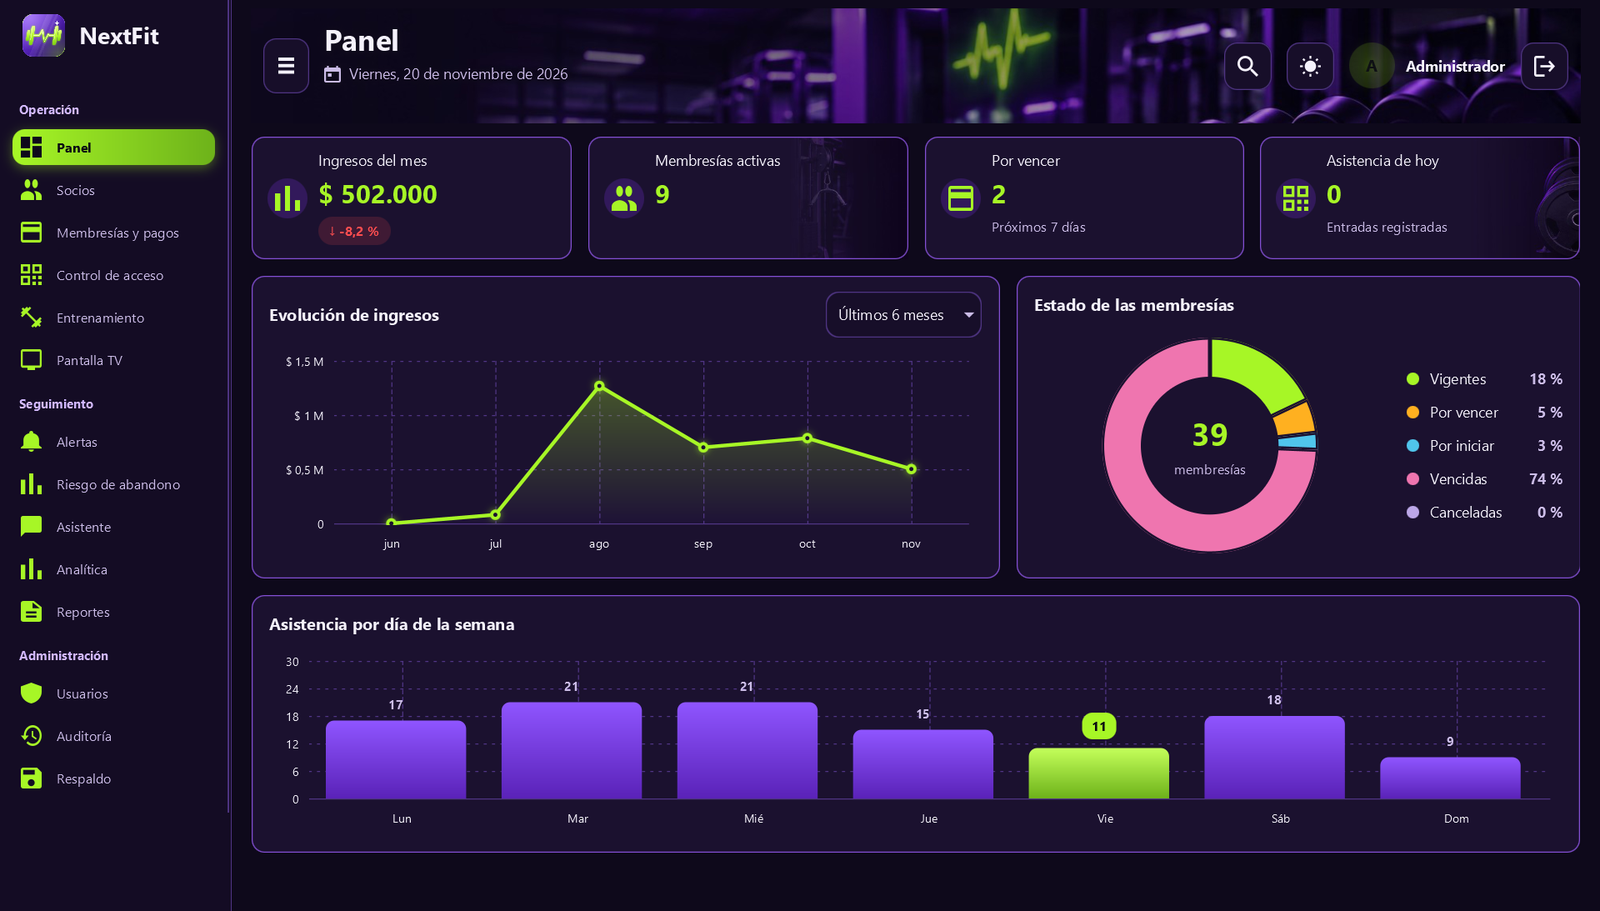
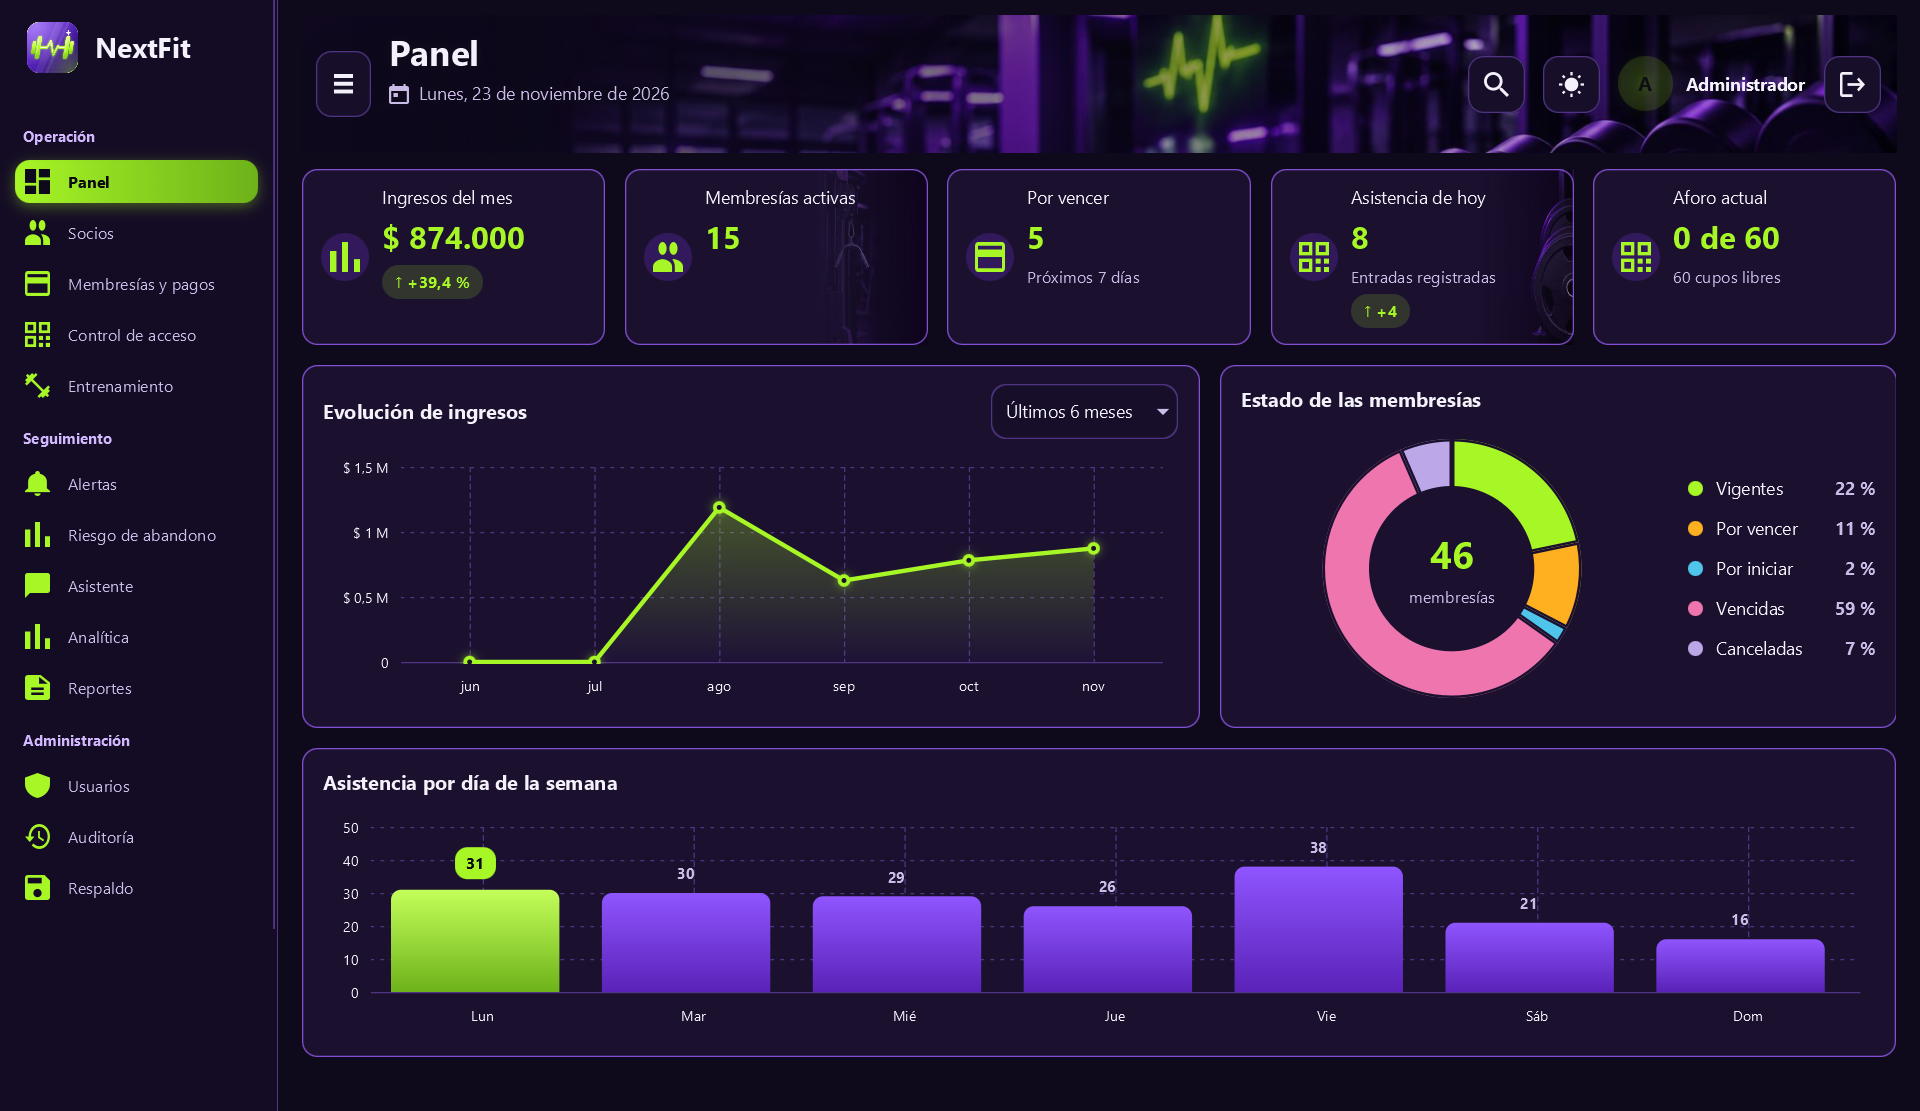
docs: refresh README and update feature screenshots

diff --git a/README.md b/README.md
@@ -46,7 +46,7 @@ It is built with **Java 21** and **JavaFX** (with the AtlantaFX theme and its ow
 
 > This repository is the course project of *Programación III*.
 >
-> **Current state:** the interface is JavaFX, with a dark and a light theme, motion and a collapsible menu. Done: dashboard, members (table, form and member file), billing, training, access control, carnets, entry with the face (camera, offline) or with a password, personal portal on the phone, AI assistant, churn risk, analytics, TV screen, reports and cash close, alerts, users, audit log and backup. NextFit works with Oracle Cloud and with local CSV storage.
+> NextFit includes a JavaFX desktop application for gym staff and a mobile portal for members. The portal can run independently on the same Wi-Fi while the desktop window is closed.
 
 ---
 
@@ -63,17 +63,17 @@ It is built with **Java 21** and **JavaFX** (with the AtlantaFX theme and its ow
 
 ### 👥 Members and health
 - **Members screen**: table with photo, document, phone and status, and a search box (name, document or phone).
-- Register, edit and deactivate members, with photo, emergency contact and validated personal data. The administrator and the reception can change data; the trainers can only read.
+- Register, edit and deactivate members, with photo, emergency contact and validated personal data. Birth dates can be typed directly or selected from the calendar. The administrator and the reception can change data; the trainers can only read.
 - **Health profile** (height, blood type, medical conditions, allergies), **measurements history** with automatic **BMI** and category, and the member **detail panel** live in the **member file** (button *Ver ficha*), with the tabs *Salud*, *Mediciones*, *Asistencia* and *Logros* (streaks and badges).
 - **Attendance**: check-in / check-out of members, with the list of members currently inside the gym (see Access control).
 - **Global search**: Ctrl+K or the magnifier in the top bar finds members (name, document, phone) and sections, ignoring case and accents; every module can add its own results through `FxModule.search`.
 - **Alerts engine**: birthdays, memberships about to expire and members who stopped coming, each with a ready WhatsApp message (`service.alert`). The **Alertas** screen shows them in cards and a list, writes the message for the member and opens WhatsApp or copies the text (administrator and reception).
 
 ### 💳 Memberships and billing
-- Membership plans (name, duration, price) that can be activated or retired.
-- Sale of a membership to a member with a **payment method** (cash, card, transfer) and an optional **discount** (percentage or fixed amount).
+- Administrators create, edit, retire and reactivate membership plans. Reception can sell available plans and view subscriptions and payments.
+- Sell memberships by cash, card or transfer. Eligible renewals can apply one benefit for an attendance achievement (10% to 40%) or a birthday (50% on the birth date, once per calendar year).
 - Automatic receipt with its number, subtotal, discount and total.
-- Subscription list with computed status: *upcoming, active, expired, cancelled*, with days left; subscriptions can be cancelled.
+- Subscription list with computed status: *upcoming, active, expired, cancelled*, with days left. Only administrators can cancel a subscription.
 - Payment history, with the delivery state of each receipt email.
 - **Automatic email** through Gmail (off by default): the receipt is sent after each payment and a reminder three days before a membership expires. Test mode sends only to the developer's inbox; failed receipts can be retried from the *Pagos* tab. See [`docs/automatic-email.md`](docs/automatic-email.md).
 
@@ -81,29 +81,32 @@ It is built with **Java 21** and **JavaFX** (with the AtlantaFX theme and its ow
 - **Exercise catalog** with description, muscle group, difficulty and photo.
 - **Routines** organized by days and exercises (sets, repetitions, rest time), created by a trainer.
 - **Assignment** of routines to members who hold a valid membership (active, completed or cancelled).
-- **Training sessions** log per assignment (day, duration, notes).
-- Trainer management.
+- **Training sessions** log per assignment (day, duration, notes). Filter members by whether they have a routine assignment or recorded sessions in the corresponding tab.
+- Trainer management. Birth dates can be typed directly or selected from the calendar.
 
 ### 📊 Dashboard
-- Indicators for active memberships, memberships about to expire, today's attendance and the income of the month.
+- Indicators for active memberships, memberships about to expire, today's attendance, monthly income, and current occupancy with available spots.
 - **Trend chips**: income compared with the same days of the previous month, and today's entries compared with yesterday.
 - Charts: memberships by status (donut), attendance by weekday (bars) and income of the last months (line, in millions of pesos). They animate when the screen opens.
 
 ### 🚪 Access control
 - Check-in and check-out are done by the member alone, with the **face** or with the **document and a password**.
-- **Personal portal**: the QR of the carnet opens on the phone the portal of the member (day to train, next days, last visits, body progress, membership). The QR is read-only and never registers an entry or an exit ([details](docs/phone-qr-access.md)).
-- **Dentro ahora**: list of the people inside the gym; the staff can close the visit of a member who forgot to mark the exit.
-- **Carnets**: each member has a credit-card sized carnet (front and back) that can be saved as an image or as a **PDF**; one more button makes a single PDF with every active member, four carnets per A4 page, ready to print and cut. The QR is drawn as vectors so it scans at any size.
+- **Dentro ahora** shows visitors in arrival order and the available spots. Administrators can configure gym capacity here. Staff can record a missed exit. The system pauses new admissions when the gym is full.
+
+### 📱 Member cards and mobile portal
+- **Socios → Carnets** issues a branded card at registration with the name, document, photo or initials, and a QR code for the member portal. Export a PNG or a print-ready front-and-back PDF, up to four cards per A4 page.
+- Members with an active membership can use the portal to see routines, recent visits, progress, membership details and estimated occupancy by time. The QR opens the portal without recording a check-in or check-out.
+- The portal can run on the same Wi-Fi with the desktop window closed. See the [setup guide](docs/phone-qr-access.md).
 
 ### 🤖 AI assistant and churn risk
 - **Churn risk** (*Riesgo de abandono*): each member gets a risk level (low, medium, high) from rules that look at the days away, the drop in frequency and the memberships about to expire (`service.churn`). New rules are new `ChurnRule` classes.
 - **Assistant** (*Asistente*): a chat for the staff that answers about the gym (members at risk, best hours, revenue, alerts) by calling safe read-only tools, and that can suggest routines. It uses the Claude API; the key goes in `nextfit.properties` (`ai.apiKey`), has a daily limit of tokens and is never stored in the repository.
-- **Member chat** in the personal portal, limited to the data of that member (`PortalChatService`).
+- **Member chat** answers using the signed-in member data and shows how many of the 20 daily questions are left. The counter resets at midnight or when the portal process restarts.
 
 ### 🏅 Achievements
 - Streaks of attendance, badges and a ranking of members (`service.gamification`).
 
-### 📈 Analytics and TV screen
+### 📈 Analytics
 - **Analytics**: peak hour, average stay, renewal rate, members at risk of leaving, and a heat map of the busiest hours (last 8 weeks).
 - **TV screen** (*Pantalla TV*): live occupation of the gym (people inside, capacity, level, best hour to come), designed to be shown on a television in full screen.
 
@@ -130,7 +133,7 @@ It is built with **Java 21** and **JavaFX** (with the AtlantaFX theme and its ow
 
 ## Screenshots
 
-> Screenshots live in [`docs/screenshots`](docs/screenshots). The face in the *Rostro* picture and the local folder in the *Backup* picture are blurred.
+> Screenshots live in [`docs/screenshots`](docs/screenshots). Some screenshots show earlier interface layouts. Identifying details and QR codes are covered in the updated access and card screenshots.
 
 | Login | Dashboard (dark) |
 |:--:|:--:|
@@ -152,9 +155,9 @@ It is built with **Java 21** and **JavaFX** (with the AtlantaFX theme and its ow
 |:--:|:--:|
 | ![Exercises](docs/screenshots/training-exercises.png) | ![Routine assignment](docs/screenshots/training-assign.png) |
 
-| Inside now | Carnets |
+| Inside now and capacity | Member cards |
 |:--:|:--:|
-| ![Inside now](docs/screenshots/access-inside.png) | ![Carnets](docs/screenshots/access-carnets.png) |
+| ![Current visitors and capacity](docs/screenshots/access-inside.png) | ![Member card preview](docs/screenshots/access-carnets.png) |
 
 | Face entry | Password entry |
 |:--:|:--:|
@@ -168,10 +171,6 @@ It is built with **Java 21** and **JavaFX** (with the AtlantaFX theme and its ow
 |:--:|:--:|
 | ![AI assistant](docs/screenshots/assistant.png) | ![Analytics](docs/screenshots/analytics.png) |
 
-| TV screen | Reports |
-|:--:|:--:|
-| ![TV screen](docs/screenshots/tv.png) | ![Reports](docs/screenshots/reports.png) |
-
 | Users | Audit log |
 |:--:|:--:|
 | ![Users](docs/screenshots/users.png) | ![Audit log](docs/screenshots/audit.png) |
@@ -180,11 +179,13 @@ It is built with **Java 21** and **JavaFX** (with the AtlantaFX theme and its ow
 |:--:|:--:|
 | ![Backup](docs/screenshots/backup.png) | ![Routines](docs/screenshots/training.png) |
 
-**Personal portal on the phone** (the QR of the carnet):
+See also the [reports screen](docs/screenshots/reports.png).
 
-| Today and membership | Chat and progress |
+**Member portal on a phone**
+
+| Training and membership | Occupancy, chat and progress |
 |:--:|:--:|
-| <img src="docs/screenshots/portal-phone.png" width="260"> | <img src="docs/screenshots/portal-chat.png" width="260"> |
+| <img src="docs/screenshots/portal-phone.png" width="260"> | <img src="docs/screenshots/portal-chat.png" width="260" alt="Estimated peak occupancy, remaining chatbot questions and training progress"> |
 
 ---
 
@@ -195,15 +196,14 @@ The sidebar only shows the modules that the logged-in role can use.
 | Module | Administrator | Reception | Trainer |
 |---|:--:|:--:|:--:|
 | Dashboard | ✅ | ✅ | ❌ |
-| Members | ✅ edit | ✅ edit | 👁 read only |
-| Billing (plans, sales, payments) | ✅ | ✅ | ❌ |
+| Members and cards | ✅ edit and issue cards | ✅ edit and issue cards | 👁 read members |
+| Billing (plans, sales, payments) | ✅ sales and administration | ✅ sales and history | ❌ |
 | Training (exercises, routines, assignments) | ✅ | ❌ | ✅ |
-| Access control (inside now, carnets, face, password) | ✅ | ✅ | ❌ |
+| Access control (inside now, face, password) | ✅ | ✅ | ❌ |
 | Analytics | ✅ | ✅ | ❌ |
 | Churn risk | ✅ | ✅ | ❌ |
 | AI assistant | ✅ | ✅ | ❌ |
 | Alerts | ✅ | ✅ | ❌ |
-| TV screen | ✅ | ✅ | ❌ |
 | Reports and cash close | ✅ | ✅ | ❌ |
 | Users | ✅ | ❌ | ❌ |
 | Audit log | ✅ | ❌ | ❌ |
@@ -354,7 +354,7 @@ NextFit/
 │   │   │   ├── face/          #   face recognition rules
 │   │   │   ├── gamification/  #   streaks, badges, ranking
 │   │   │   ├── portal/        #   data of the personal portal
-    │   │   │   ├── occupancy/     #   live occupation (TV screen)
+    │   │   │   ├── occupancy/     #   gym capacity and occupancy forecasts
     │   │   │   ├── security/      #   login lockout and inactivity
     │   │   │   └── suggest/       #   routine suggestions
     │   │   ├── validation/        # one validator per area
@@ -406,6 +406,14 @@ mvn clean compile exec:java
 Or from the IDE: open the project as a Maven project and run the class `com.nextfit.Main`.
 
 > The application must be started from the project root, because the `data/` and `backups/` folders are created relative to the working directory.
+
+### Run the member portal separately on Windows
+
+1. Add `portal.standaloneLan=true` to your local `nextfit.properties`. The default port is 8765. If it is already in use, set `portal.lanPort` to an available port.
+2. Run `start-portal-lan.cmd` from the project root and leave the portal process running. The host computer must stay awake.
+3. Connect the phone and computer to the same Wi-Fi or hotspot. Open the `/ping` address printed by the launcher, then generate and scan a card from **Socios → Carnets**.
+
+The desktop window can be closed once the standalone server is running. Generate a fresh QR when the host IP address or port changes. For more details, see the [phone portal setup guide](docs/phone-qr-access.md).
 
 ### Build a package
 
@@ -474,7 +482,7 @@ Relations between entities are stored as identifiers (for example a subscription
 
 ## Business rules
 
-Some of the rules enforced by the services (all of them covered by tests):
+Selected rules enforced by the services:
 
 - A member can only buy a membership if they are **active** and the plan is still **available**.
 - A subscription that already expired **cannot be cancelled**, and a cancelled one cannot be cancelled again.
@@ -485,7 +493,7 @@ Some of the rules enforced by the services (all of them covered by tests):
 - Usernames are unique; you cannot deactivate your own user, and at least one active administrator must remain.
 - Plan names are unique.
 - After 5 failed sign-ins a user is blocked for 5 minutes, and a session with no activity for 15 minutes is closed; both are written in the audit log.
-- A carnet code is not the document: it is an HMAC of it with a secret key, and the same code read twice in 10 seconds is counted once.
+- The member card uses a signed QR code. The portal checks for an active member account and an active membership before displaying personal information.
 - Restoring a backup first saves the current data, and refuses any zip that is not a NextFit backup or that has paths leaving the data folder.
 - Data validation, for example: age between 12 and 100 years, document between 5 and 12 digits, phone between 7 and 15 digits, height between 100 and 250 cm, weight between 20 and 400 kg, valid blood types only.
 
@@ -497,7 +505,7 @@ Some of the rules enforced by the services (all of them covered by tests):
 mvn test
 ```
 
-The suite covers services (members, health, attendance, access, plans, subscriptions, payments, cash close, reports, analytics, occupancy, alerts, churn, achievements, audit, security, exercises, routine assignments, training sessions, users, dashboard, backup), the face recognition rules, the assistant and its tools (with a fake model), the phone access server and portal, the PDF and Excel writers, the demo data seeder, formatting and receipt helpers, photo storage and UI helper components. The JDBC repositories, the backup export and the CSV to Oracle migration are tested on an in-memory **H2** database built from `docs/sql/schema.sql`. The tests run on every pull request through GitHub Actions. Services are tested with in-memory fake repositories, so the tests need no files, no camera, no network and run fast.
+The suite covers services (members, health, attendance, access, plans, subscriptions, payments, cash close, reports, analytics, occupancy, alerts, churn, achievements, audit, security, exercises, routine assignments, training sessions, users, dashboard, backup), the face recognition rules, the assistant and its tools (with a fake model), the phone access server and portal, the PDF and Excel writers, the demo data seeder, formatting and receipt helpers, photo storage and UI helper components. The JDBC repositories, the backup export and the CSV to Oracle migration are tested on an in-memory **H2** database built from `docs/sql/schema.sql`. The tests run on every pull request through GitHub Actions. The suite uses temporary files, test databases and local HTTP requests where needed. It does not require a camera, external Oracle access or a live AI API.
 
 ---
 
@@ -530,7 +538,7 @@ Some examples:
 | [Audit log and security](docs/audit-and-security.md) | Lockout, inactivity and what is recorded |
 | [Backup and restore](docs/backup-restore.md) | How the backups work and how to recover the data |
 | [Reports and cash close](docs/reports-cash-close.md) | The cash close and the PDF and Excel reports |
-| [Phone QR access](docs/phone-qr-access.md) | QR of the carnet: personal portal |
+| [Phone QR access](docs/phone-qr-access.md) | Member cards, portal access and standalone Wi-Fi setup |
 | [Face recognition](docs/face-recognition.md) | How the face entry works and its safety checks |
 | [Member password](docs/member-password.md) | Entry with document and password |
 | [Automatic email](docs/automatic-email.md) | Gmail setup, test and live modes, delivery records and receipt retry |
@@ -559,7 +567,7 @@ Some examples:
 
 ### Workflow
 
-- Work is done in **feature branches** (`feature/...`) that are merged into `develop` through **pull requests**; branches are not deleted after merging.
+- Feature and documentation branches are merged into `develop` through pull requests. Releases are promoted from `develop` to `main`.
 - Commits follow **Conventional Commits** (`feat`, `fix`, `docs`, `test`, `refactor`).
 - Code, comments and documentation are written in **English**; the user interface is in **Spanish**.
 
